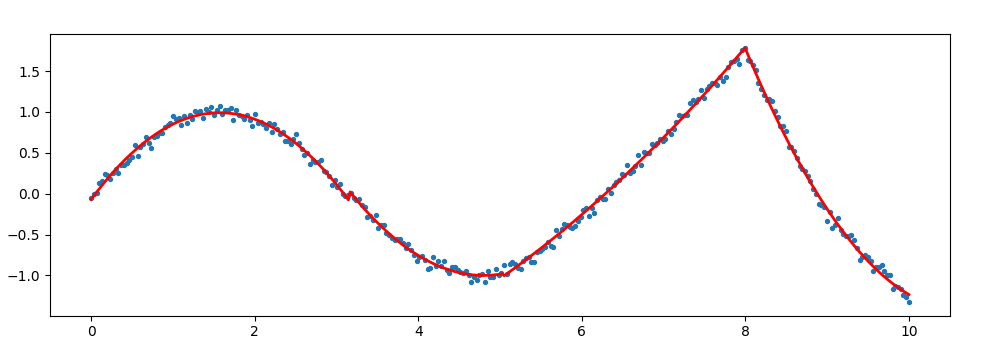
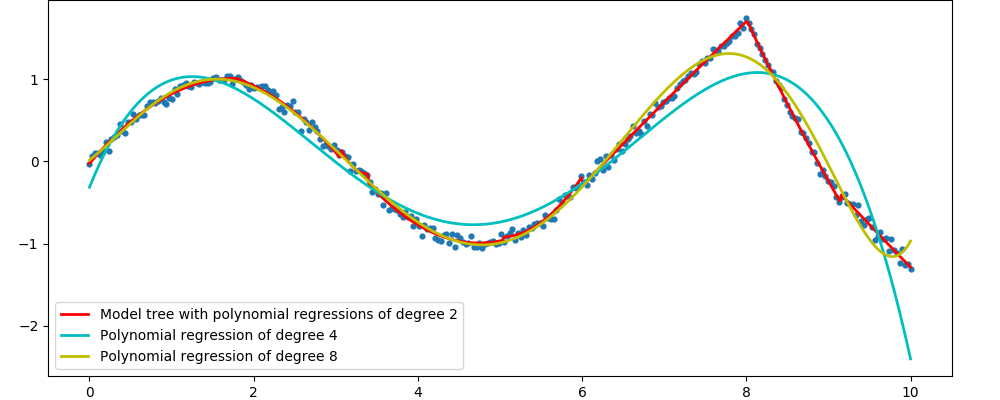
Add the comparison with polynomial regressions of degrees 4 and 8 in example_1D.py

diff --git a/example_1D.py b/example_1D.py
@@ -1,9 +1,11 @@
 #!/usr/bin/env python
 import numpy as np
 import matplotlib.pyplot as plt
-from model_tree import Model_tree
+from model_tree import Model_tree, Polynomial_regression
 import sys
 
+
+# Definition of the training set:
 
 n_samples = 300
 
@@ -16,20 +18,39 @@ y = np.append( y, -1*( x[ x >= 9 ] - 9 ) + 6 - 2*np.pi )
 y += np.random.randn( n_samples )*0.05
 
 
-
-model_tree = Model_tree( oblique=False, max_depth=2, node_min_samples=10, loss_tol=0.01, model='polynomial', search_grid=10 )
-model_tree.fit( x, y, verbose=1 )
+# Definition of the test set:
 
 x_test = np.linspace( 0, 10, 500 )
-y_pred = model_tree.predict( x_test[:,np.newaxis] )
 
 
+# Declaration and training of a model tree:
 
-fig = plt.figure( 'Example 1D', figsize=( 10, 3.5 ) )
-plt.scatter( x, y, s=8 )
-plt.plot( x_test, y_pred, c='r', lw=2 )
+model_tree = Model_tree( oblique=False, max_depth=3, node_min_samples=10, model='polynomial', degree=2, search_grid=10 )
+model_tree.fit( x, y, verbose=1 )
+y_pred_0 = model_tree.predict( x_test[:,np.newaxis] )
+
+
+# Fitting of polynomial regressions for comparison:
+
+poly_regr_1 = Polynomial_regression( degree=4 )
+poly_regr_1.fit( x.reshape(-1, 1), y )
+y_pred_1 = poly_regr_1.predict( x_test[:,np.newaxis] )
+
+poly_regr_2 = Polynomial_regression( degree=8 )
+poly_regr_2.fit( x.reshape(-1, 1), y )
+y_pred_2 = poly_regr_2.predict( x_test[:,np.newaxis] )
+
+
+# Plots:
+
+fig = plt.figure( 'Example 1D', figsize=( 10, 4 ) )
+plt.scatter( x, y, s=12 )
+plt.plot( x_test, y_pred_0, c='r', lw=2 )
+plt.plot( x_test, y_pred_1, c='c', lw=2 )
+plt.plot( x_test, y_pred_2, c='y', lw=2 )
+plt.legend( [ 'Model tree with polynomial regressions of degree 2', 'Polynomial regression of degree 4', 'Polynomial regression of degree 8' ], loc=3 )
 plt.gca().set_aspect( 'equal', adjustable='box' )
-plt.subplots_adjust( left=0.05, right=0.95, top=1, bottom=0 )
+plt.subplots_adjust( left=0.04, right=0.96, top=1, bottom=0.06 )
 
 
 if len( sys.argv ) > 1 and sys.argv[-1] == 'w' :

diff --git a/example_2D.py b/example_2D.py
@@ -48,22 +48,22 @@ y_data = data[:,2]
 
 
 
-###############
-# MODEL TREES #
-###############
+##############
+# MODEL TREE #
+##############
 
-#omt = Model_tree( oblique=False, max_depth=5, node_min_samples=10, loss_tol=0.001, model='linear' )
-omt = Model_tree( oblique=True, max_depth=3, node_min_samples=10, loss_tol=0.001, model='linear' )
+#model_tree = Model_tree( oblique=False, max_depth=5, node_min_samples=10, loss_tol=0.001, model='linear' )
+model_tree = Model_tree( oblique=True, max_depth=3, node_min_samples=10, loss_tol=0.001, model='linear' )
 
-omt.fit( X_data, y_data, verbose=1 )
-#omt.save_tree_params( 'mt_params' )
-#omt.load_tree_params( 'mt_params' )
+model_tree.fit( X_data, y_data, verbose=1 )
+#model_tree.save_tree_params( 'mt_params' )
+#model_tree.load_tree_params( 'mt_params' )
 
 # Predictions to be plotted:
 Zp = np.zeros_like( Zr )
 for i, x in enumerate( x_scale ) :
 	for j, y in enumerate( y_scale ) :
-		Zp[j][i] = omt.predict( np.array([ x, y ]) )
+		Zp[j][i] = model_tree.predict( np.array([ x, y ]) )
 
 
 

diff --git a/README.md b/README.md
@@ -12,14 +12,14 @@ Reference function | Straight tree | Oblique tree
 ![](pics/Reference_2D.png?raw=true) | ![](pics/Prediction_2D_straight.png?raw=true) | ![](pics/Prediction_2D_oblique.png?raw=true)
 || (max_depth=5) | (max_depth=3)
 
-The source file of this example is *example_2D.py*.
+The source file of the example above is *example_2D.py*.
 
 
-Here is another example with a single-dimension input space and piecewise second-order regressions:
+Here is another example with a single-dimension input space and piecewise second-order regressions given by a model tree, compared to monolithic polynomial regressions of degree 4 or 8:
 
 ![](pics/Example_1D.png?raw=true "1D example")
 
-The source file of this example is *example_1D.py*.
+The source file of the example above is *example_1D.py*.
 
 
 ### Usage
